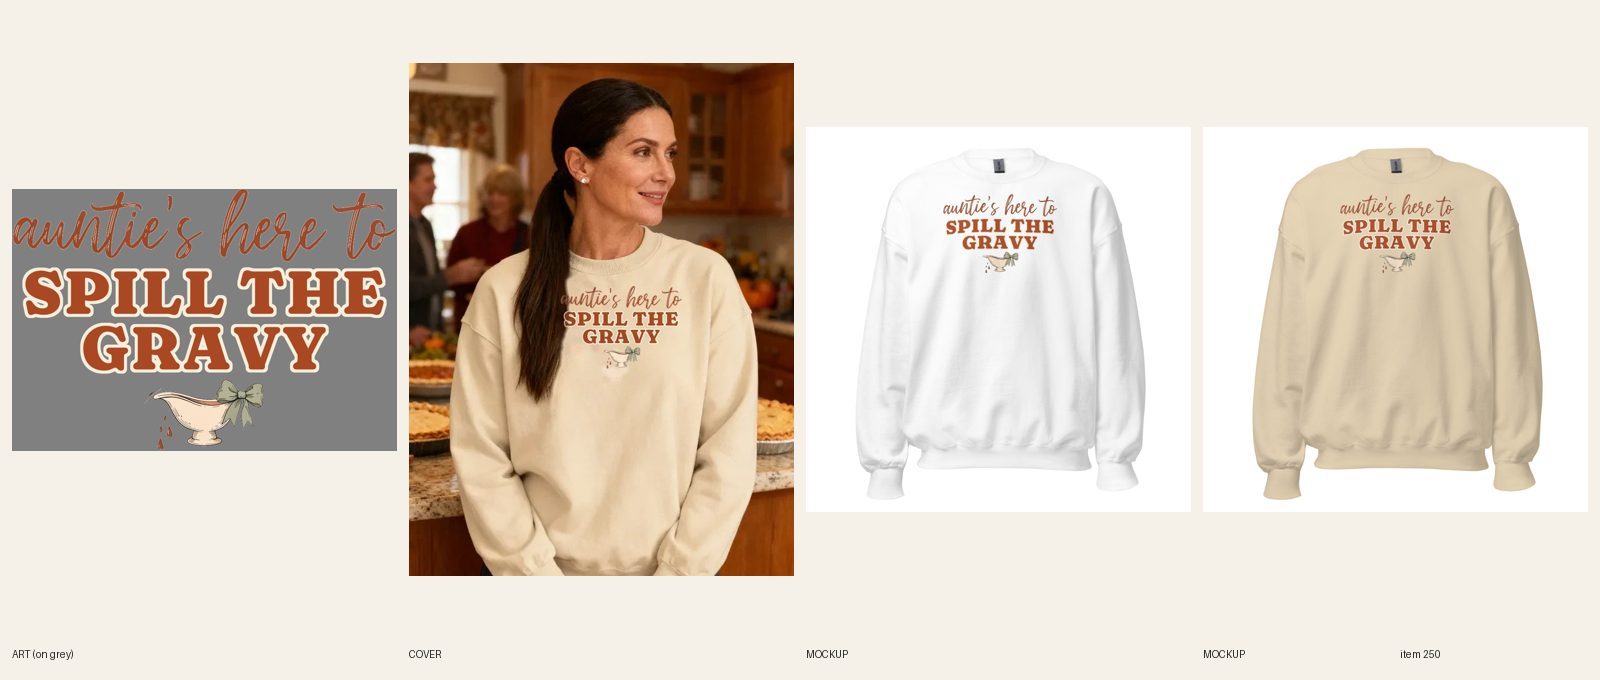
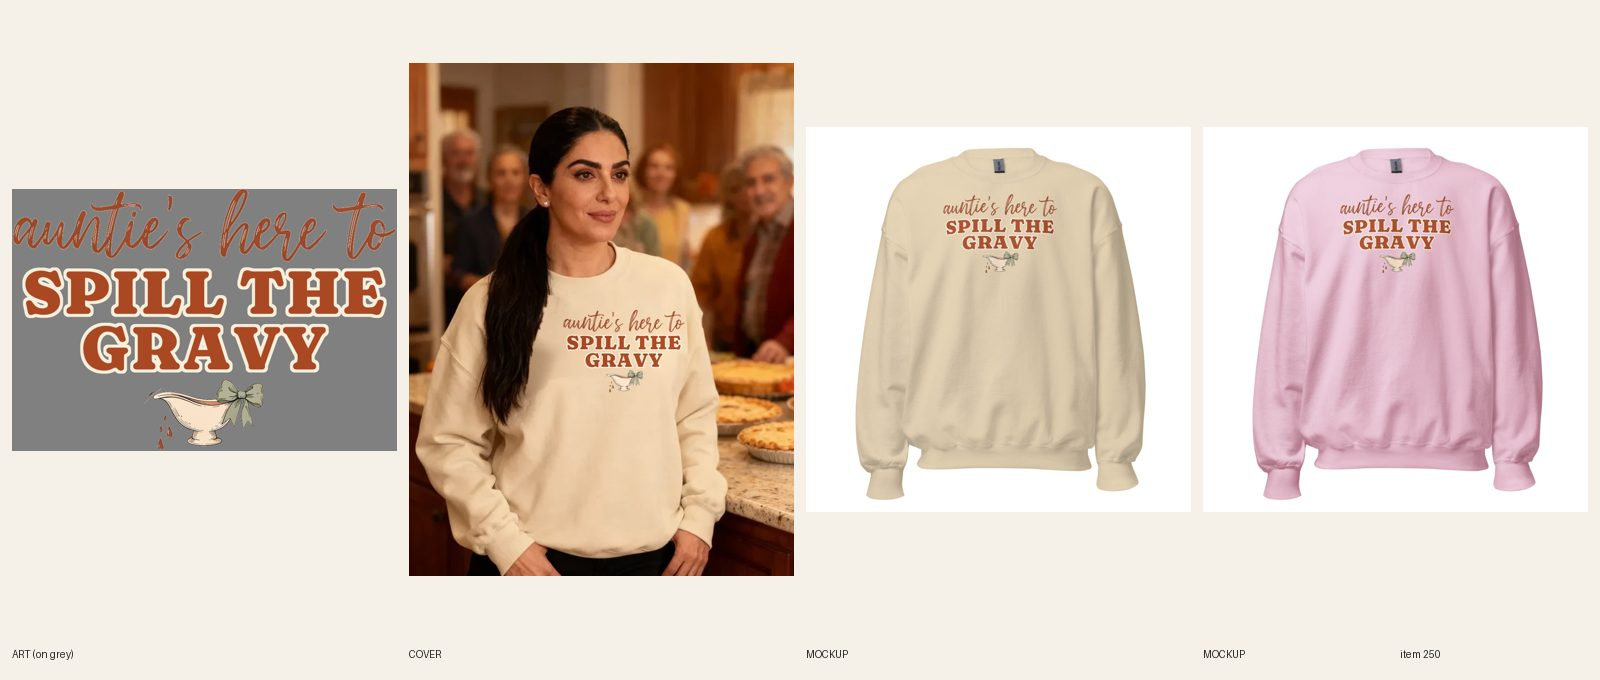
[A] review 250 Spill the Gravy crewneck (cover redo, copy, FAQ)

Changed region(s): [[0.25, 0.0926, 0.5, 0.8647], [0.5312, 0.2162, 0.7188, 0.7412], [0.7812, 0.2162, 0.9688, 0.7412]]

diff --git a/docs/pipeline/250-thanksgiving-spill-the-gravy-crewneck.md b/docs/pipeline/250-thanksgiving-spill-the-gravy-crewneck.md
@@ -1,4 +1,4 @@
-status: REDO
+status: REVIEW
 lane: A
 type: twin
 id: 250
@@ -27,3 +27,4 @@ handle: womens-thanksgiving-spill-the-gravy-crewneck-sweatshirt
 - 2026-10-18 06:56 UTC builder [A]: re-link verified: sync 482339482 30/30 variants on the new solid-ink file 1088701544 (default file checked on every variant, back logo kept). Printful fulfillment now matches the storefront photos; the product stays ACTIVE.
 - 2026-10-18 06:45 UTC builder [A]: REVIEW: sync 482339482 verified 30/30 on 1088701544; cover: first regen had the ponytail over 'auntie' and the S, so the exact print was composited from art onto it (R6.9), hair repainted behind; every word reads; sheet remade. fal $0.06.
 - 2026-10-18 07:22 UTC director: REDO, cover only (stays ACTIVE; print, re-link and mockups are approved). (1) R6.9 clean erase: on the live cover (public/covers/womens-thanksgiving-spill-the-gravy-crewneck-sweatshirt.webp) a pinkish blotch from the old print sits left of and under the gravy boat, below GRAVY; repaint that area to plain Sand fleece with its folds (inpaint from the surrounding fabric), re-composite the print from the Sand mockup with multiply, zoom to 200%. (2) R6.8: the ponytail touches the a of auntie's; move it behind the shoulder while repainting. (3) R8.3: check the crewneck copy matches the new art like #249's (no 'hand-lettered', gravy boat sits beneath GRAVY, drips from its spout). Remake docs/review/250.jpg, then REVIEW.
+- 2026-10-18 09:50 UTC builder [A]: REVIEW (cover-only REDO): rebuilt from the original clean photo (no old-print remnants, no blotch), print 1088701544 composited at true size with multiply starting right of the ponytail (hair touches no letter, first 'a' checked at 200%); copy fixed (no 'hand-lettered', gravy boat beneath GRAVY, drips from its spout) and FAQ rewritten to 5 questions of 40-60 words incl. Nov 12 order-by; sheet remade. fal $0. Sync 30/30 on 1088701544 verified earlier; stays ACTIVE.
